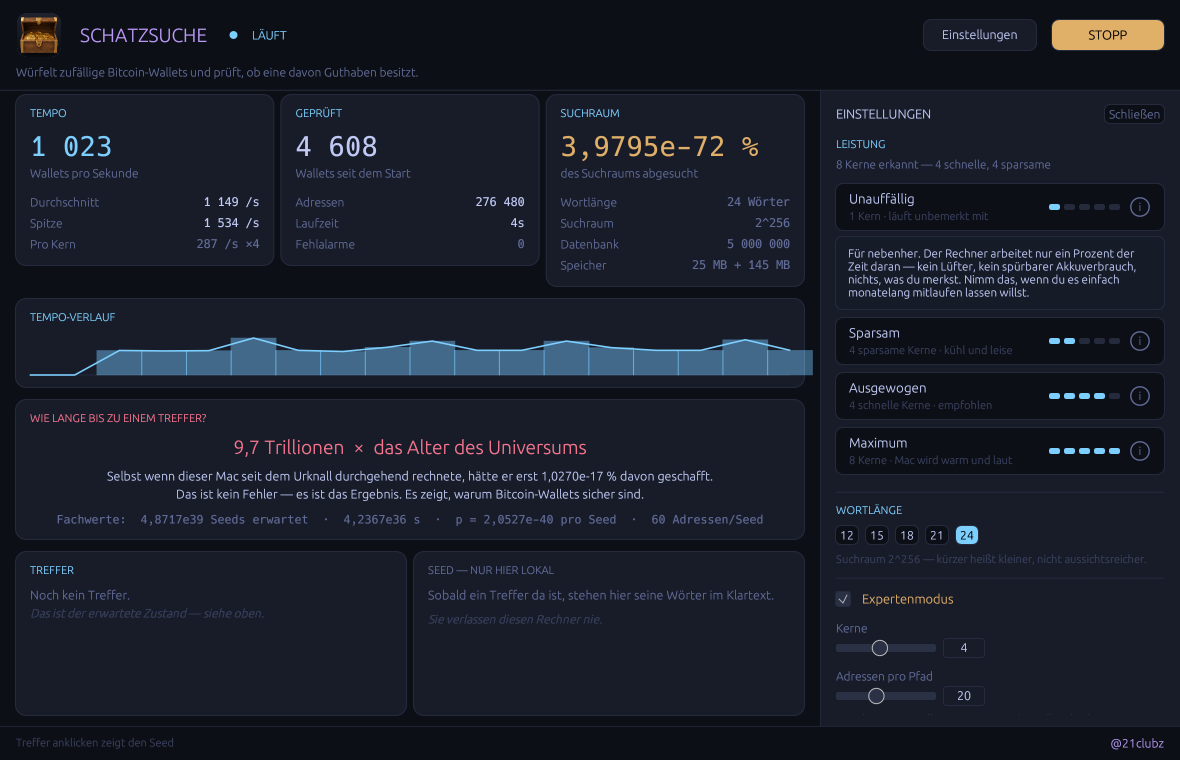
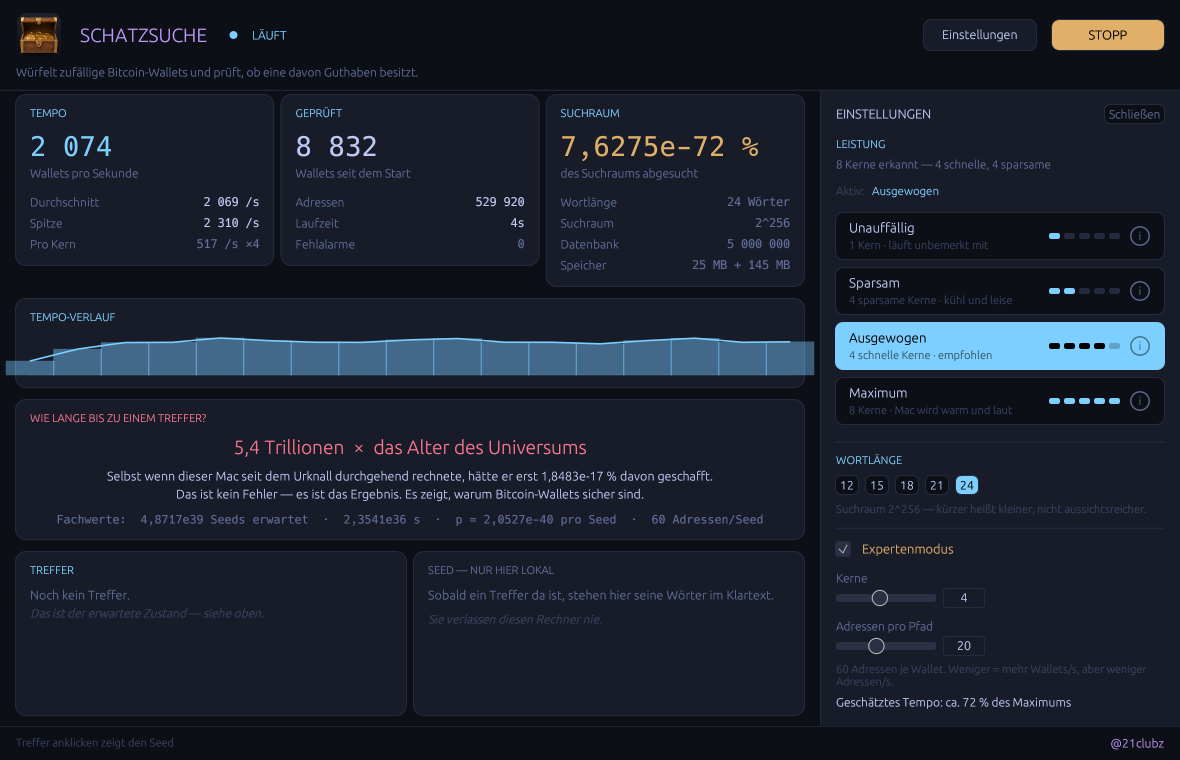
Say which mode is running, including when it is none of them
Opening the panel showed four unlit rows and no indication of what the search
was actually doing. The rows only light up on an exact match of cores,
priority and duty cycle, and a configuration need not be any of the four — the
middle priority appears in none of them, so a config.toml carrying priority = 1
lit nothing at all and looked broken.

There is now a line above the rows that always answers the question. It names
the preset when one matches, and when none does it says so and gives the
numbers: "Eigene Einstellung · 4 Kerne · Priorität Normal", in amber so it
reads as a state rather than a fault. Clicking any row still adopts that
preset, which is now visibly what changes the line.

diff --git a/src/gui.rs b/src/gui.rs
@@ -1315,7 +1315,7 @@ impl GuiApp {
                     // more cores, more heat — was telling the reader what the rows
                     // below already show.
                     ui.label(RichText::new(machine.describe()).color(DIM).size(11.5));
-                    ui.add_space(10.0);
+                    ui.add_space(8.0);
 
                     // Each row says what it costs in its own words: how much of
                     // the machine, and what that feels like. The meter carries the
@@ -1386,6 +1386,35 @@ impl GuiApp {
                              Akku hältst du es nicht lange durch.",
                         ),
                     ];
+
+                    // Which one is running right now. Settings that came from
+                    // config.toml or the expert sliders need not match any of
+                    // these — priority "Normal" is in none of them — and four
+                    // unlit rows told the reader nothing at all about that.
+                    let active_idx = presets.iter().position(|(_, t, prio, duty, ..)| {
+                        threads == (*t).min(max_cores)
+                            && self.control.priority() == *prio
+                            && self.control.throttle() == *duty
+                    });
+                    ui.horizontal(|ui| {
+                        ui.label(RichText::new("Aktiv:").color(MUTED).size(11.5));
+                        match active_idx {
+                            Some(i) => ui.label(
+                                RichText::new(presets[i].0).color(PRIMARY).size(11.5).strong(),
+                            ),
+                            None => ui.label(
+                                RichText::new(format!(
+                                    "Eigene Einstellung · {} · Priorität {}",
+                                    cores(threads),
+                                    self.control.priority().label()
+                                ))
+                                .color(WARN)
+                                .size(11.5)
+                                .strong(),
+                            ),
+                        };
+                    });
+                    ui.add_space(10.0);
 
                     for (idx, (name, t, prio, duty, sub, level, help)) in
                     presets.into_iter().enumerate()
